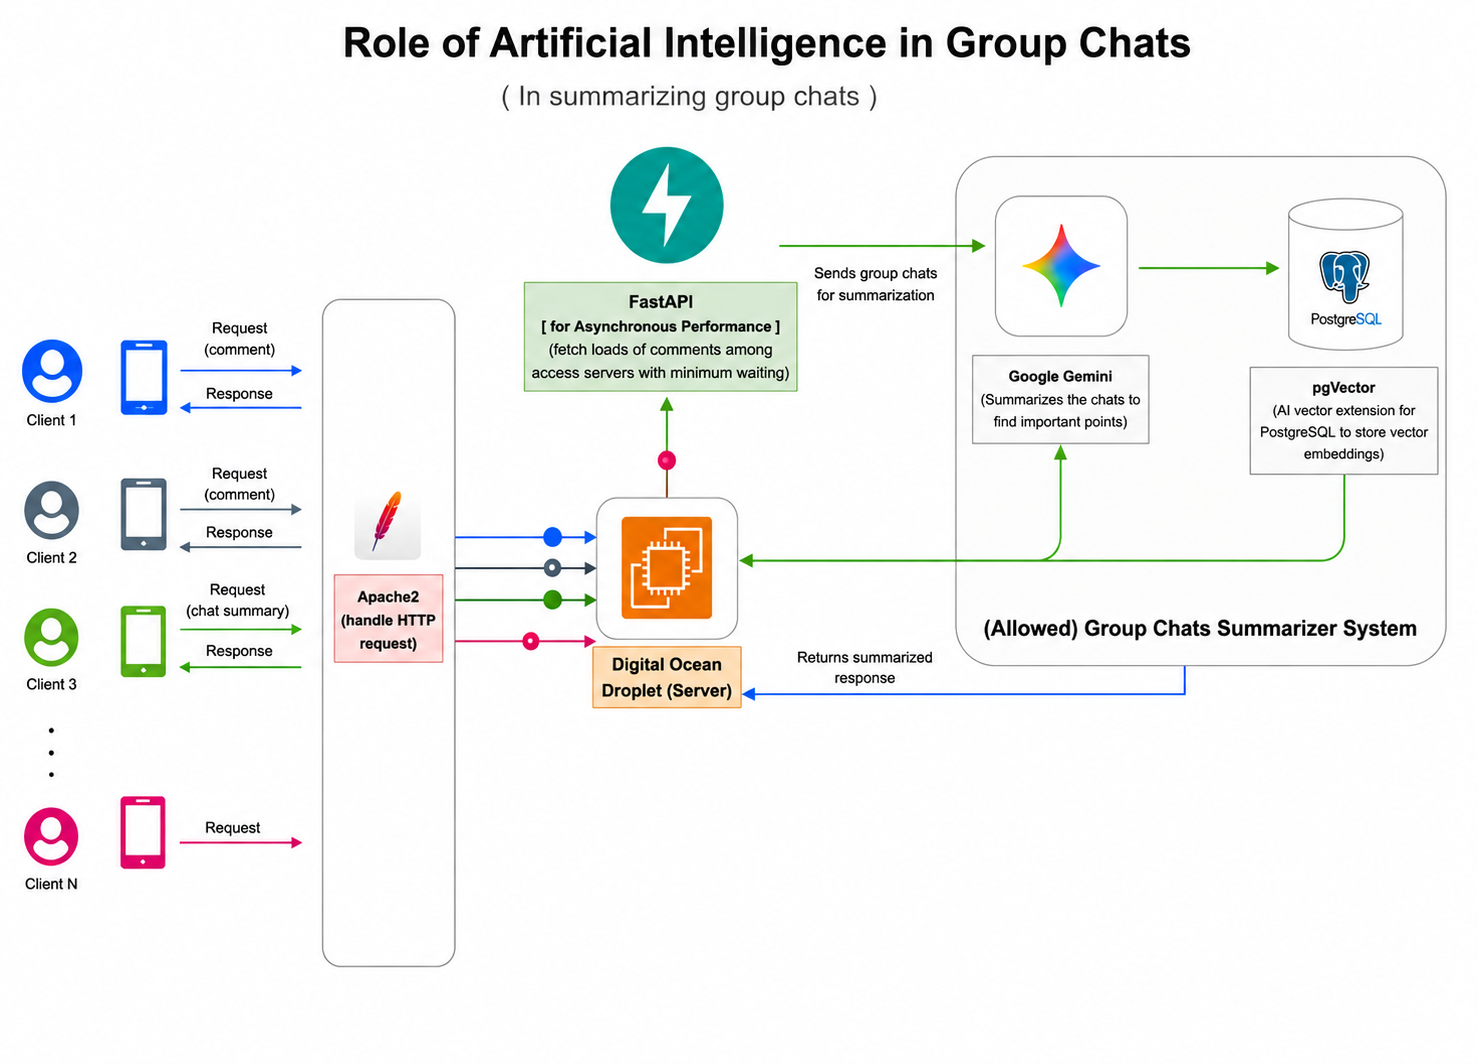
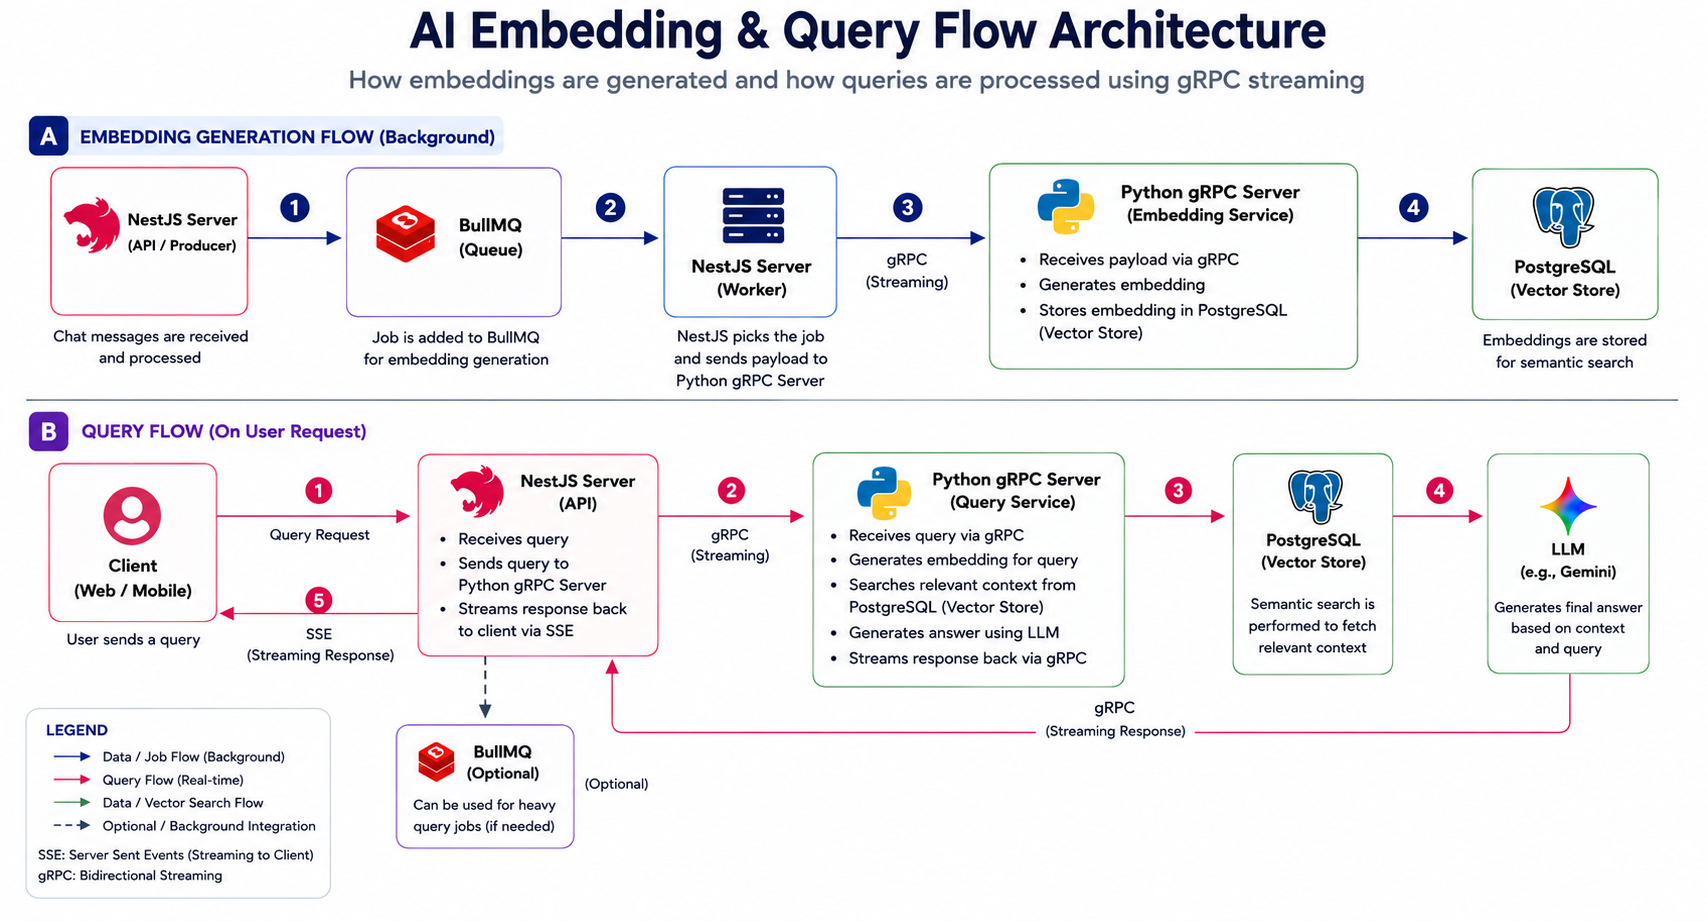
updated readme

diff --git a/README.md b/README.md
@@ -2,6 +2,21 @@
 
 > Backend repository for KnoziChat, powering real-time one-to-one chats, group conversations, AI interactions, and device synchronization.
 
+## Problem and Solution
+
+**The Problem:** When users return to the app after a long period of inactivity, keeping track of what happened in the chat can be difficult. Scrolling through and reading every single missed message is a time-consuming and tedious process.
+
+**The Solution:** KnoziChat integrates an AI-powered context engine built with a Python gRPC server and LangChain. This intelligent assistant helps users quickly catch up on missed discussions without needing to manually read through the entire chat history.
+
+The AI system can:
+
+- understand group context
+- summarize conversations
+- generate contextual replies
+- maintain conversational awareness
+
+---
+
 KnoziChat is a scalable Android chat application built around:
 
 - real-time communication
@@ -31,7 +46,7 @@ https://expo.dev/artifacts/eas/jD1GYnAXZ8PgSLRyHE3TST.apk
 KnoziChat is powered by:
 
 - NestJS + Fastify backend
-- FastAPI AI service
+- Python gRPC AI server
 - Socket.IO realtime infrastructure
 
 ## Backend Repository
@@ -48,17 +63,17 @@ https://knozichat.online/api
 
 ---
 
-## FastAPI AI Service Docs
-
-https://knozify.space/docs
-
----
-
 # Architecture Diagrams
 
 ## Authentication System
 
 ![](./docs/images/auth.png)
+
+---
+
+## Database Architecture & Synchronization Flow
+
+![](./docs/images/database-sync.png)
 
 ---
 
@@ -68,15 +83,25 @@ https://knozify.space/docs
 
 ---
 
+## Chat Insert Flow (End-to-End)
+
+![](./docs/images/chat-flow.png)
+
+---
+
 ## AI Group Conversation System
 
 ![](./docs/images/ai.png)
 
----
+### Flow Summary
 
-## Database Architecture & Synchronization Flow
-
-![](./docs/images/database-sync.png)
+1. User sends message via Socket.IO from the chat app.
+2. NestJS Socket.IO Gateway receives the message, validates it, and prepares data.
+3. Message is inserted into MongoDB (chat store).
+4. Acknowledgment is emitted back to the user via Socket.IO.
+5. A job with necessary payload is added to BullMQ queue.
+6. Queue Service (BullMQ Worker) picks the job and sends payload to Python gRPC Server.
+7. Python gRPC Server receives the payload for embedding processing and stores the result in PostgreSQL.
 
 ---
 
@@ -235,18 +260,6 @@ operates within isolated Socket.IO rooms for efficient event broadcasting.
 
 ---
 
-# AI-Powered Group Conversations
-
-KnoziChat integrates FastAPI and LangChain for contextual AI interactions.
-
-The AI system can:
-
-- understand group context
-- summarize conversations
-- generate contextual replies
-- maintain conversational awareness
-
----
 
 # Redis Integration
 
@@ -274,7 +287,7 @@ Redis is used for:
 - NestJS
 - Fastify
 - Socket.IO
-- FastAPI
+- Python gRPC
 - LangChain
 
 ## Databases & Infrastructure